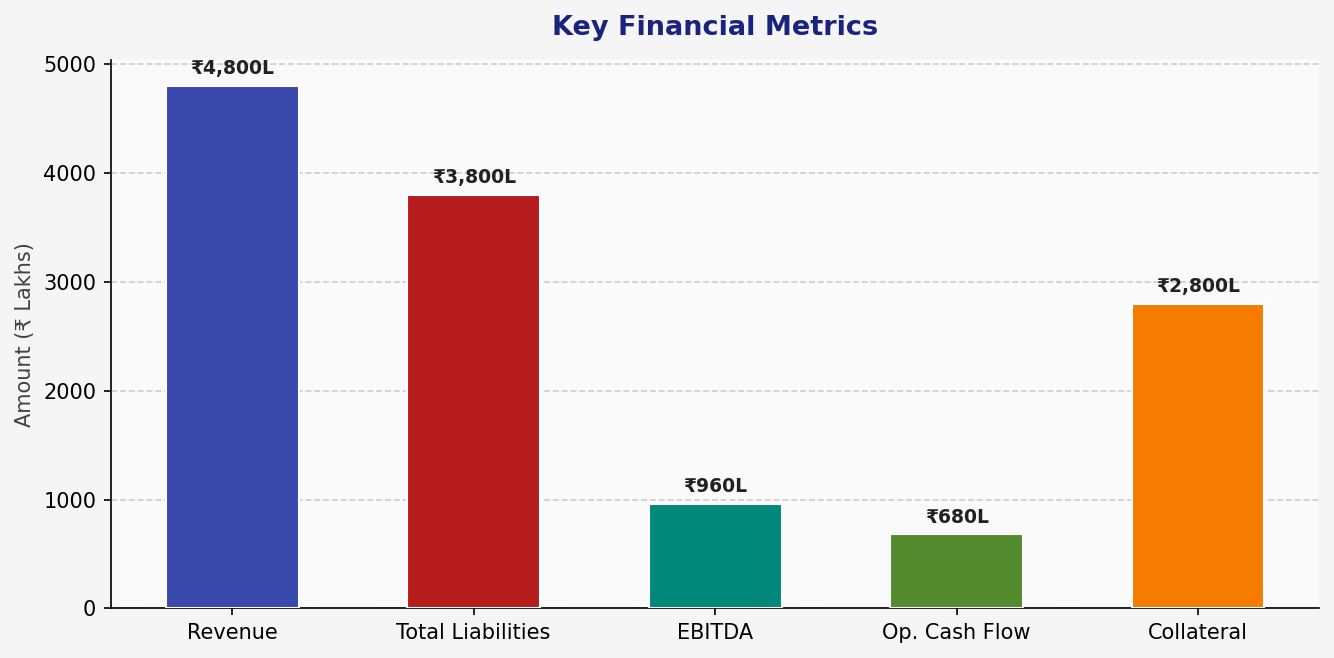
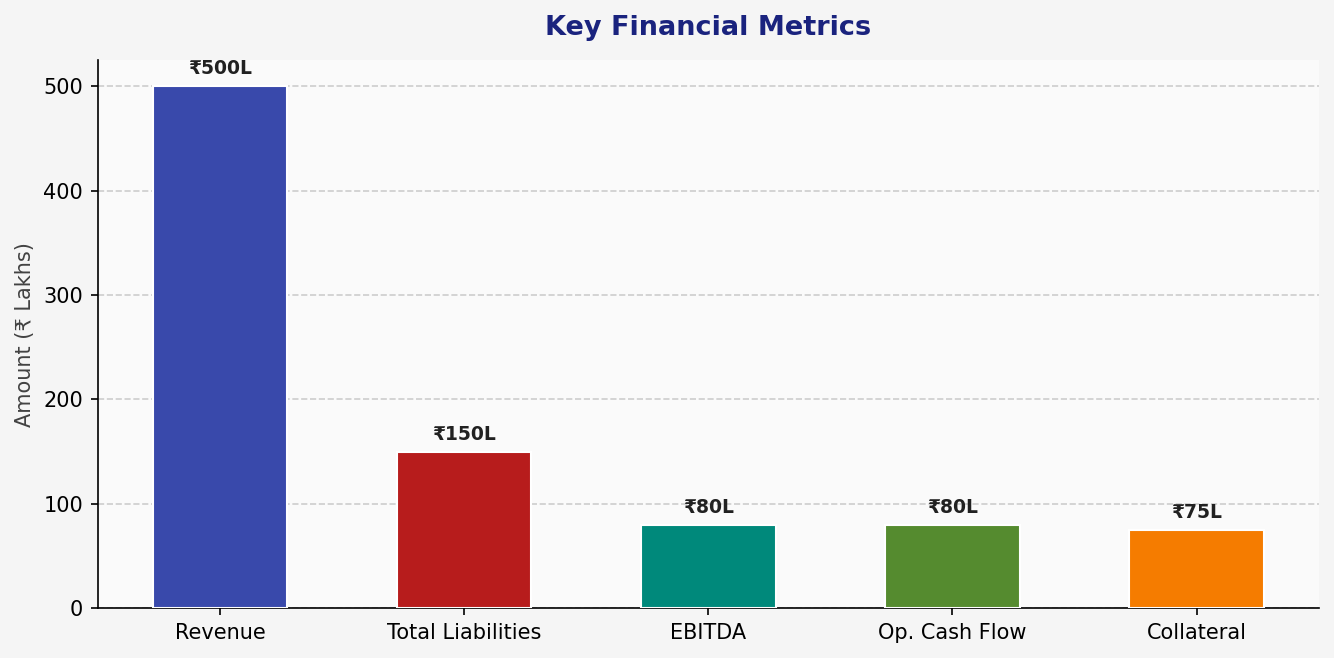
feat: Implement full pipeline orchestration for ingestor, research, and CAM generation, updating financial data structure and dependencies.

diff --git a/app.py b/app.py
@@ -1,100 +1,174 @@
 """
-CertifAI — Shared State Orchestrator
-=====================================
-Entry point that wires all agent modules together via shared JSON state.
+CertifAI — Full Pipeline Orchestrator
+======================================
+Wires all four agent modules together via shared JSON state in shared_data/.
 
-Usage examples:
-    # Run only the Research Agent
-    python app.py --mode research --company "Adani Ports" --sector "Infrastructure"
+Usage:
+    # Step 1 — Ingest financial documents
+    python app.py --mode ingestor --company "Arjun Textiles Pvt. Ltd."
 
-    # Run all agents in sequence (full pipeline)
-    python app.py --mode all --company "Reliance Retail" --sector "Retail"
+    # Step 2 — Run OSINT Research Agent (needs GEMINI_API_KEY)
+    python app.py --mode research --company "Arjun Textiles Pvt. Ltd." --sector "Textiles"
+
+    # Step 3 — Generate CAM PDF report
+    python app.py --mode cam
+
+    # Run everything end-to-end
+    python app.py --mode all --company "Arjun Textiles Pvt. Ltd." --sector "Textiles"
 """
 
 import argparse
 import json
 import os
-
-# Shared output paths (single source of truth for all agents)
-SHARED = {
-    "financial_summary":      "shared_data/financial_summary.json",
-    "external_intelligence":  "shared_data/external_intelligence.json",
-    "risk_decision":          "shared_data/risk_decision.json",
-    "final_cam_report":       "shared_data/final_cam_report.pdf",
-}
-
-
-def run_research(company: str, sector: str) -> None:
-    """Run the Research Agent (OSINT) module."""
-    from modules.research_agent import run_research_agent
-
-    result = run_research_agent(
-        company_name=company,
-        sector=sector,
-        output_json_path=SHARED["external_intelligence"],
-    )
-    print("\n=== Research Agent Output ===")
-    print(json.dumps(result.model_dump(), indent=2))
-
-
-def main():
-    parser = argparse.ArgumentParser(
-        description="CertifAI — Digital Credit OSINT Platform"
-    )
-    parser.add_argument(
-        "--mode",
-        choices=["research", "all"],
-        default="research",
-        help="Which agent module(s) to run",
-    )
-    parser.add_argument("--company", required=True, help="Company name")
-    parser.add_argument("--sector",  required=True, help="Business sector")
-    args = parser.parse_args()
-
-    if args.mode in ("research", "all"):
-        run_research(args.company, args.sector)
-
-    # Future agents will be plugged in here:
-    # if args.mode == "all":
-    #     run_credit_engine(...)
-    #     run_cam_generator(...)
-
-
-if __name__ == "__main__":
-    main()
-"""
-app.py — CertifAI Platform Entry Point
-=======================================
-Orchestrates the full underwriting pipeline.
-Currently wires the Data Ingestor module.
-"""
-
 import sys
 from pathlib import Path
 
-# Add project root to path so sub-modules resolve correctly
-sys.path.insert(0, str(Path(__file__).parent))
+# ─── Shared state paths (single source of truth for every module) ───────────
+BASE = Path(__file__).parent
+SHARED = {
+    "financial_summary":     str(BASE / "shared_data" / "financial_summary.json"),
+    "external_intelligence": str(BASE / "shared_data" / "external_intelligence.json"),
+    "risk_decision":         str(BASE / "shared_data" / "risk_decision.json"),
+    "final_cam_report":      str(BASE / "shared_data" / "final_cam_report.pdf"),
+    "uploads":               str(BASE / "shared_data" / "uploads"),
+}
 
-from modules.ingestor import run_ingestor
+
+# ─── Module runners ──────────────────────────────────────────────────────────
+
+def run_ingestor(company: str = "") -> None:
+    """Step 1 — Parse financial documents → financial_summary.json."""
+    from modules.ingestor import run_ingestor as _run
+
+    print("\n" + "═" * 60)
+    print("  STEP 1 — Data Ingestor (Financial Triangulation)")
+    print("═" * 60)
+
+    report = _run(
+        upload_folder_path=SHARED["uploads"],
+        output_json_path=SHARED["financial_summary"],
+    )
+
+    # Enrich output JSON with CAM-generator-expected fields (using ingestor values as proxies)
+    with open(SHARED["financial_summary"], "r") as f:
+        data = json.load(f)
+
+    rev = data["metrics"]["revenue"]
+    debt = data["metrics"]["debt"]
+    cf = data["metrics"]["cash_flow"]
+
+    # Derive approximate balance-sheet fields so CAM can render a full table
+    enriched = {
+        "company_name":           data["company_name"] or company or "Unknown",
+        "fiscal_year":            "FY 2024-25",
+        "revenue":                rev / 1e5,            # convert to Lakhs for CAM
+        "ebit":                   cf * 0.85 / 1e5,
+        "ebitda":                 cf / 1e5,
+        "total_assets":           (rev * 0.9) / 1e5,
+        "total_liabilities":      debt / 1e5,
+        "current_assets":         (rev * 0.4) / 1e5,
+        "current_liabilities":    (debt * 0.4) / 1e5,
+        "retained_earnings":      (rev * 0.1) / 1e5,
+        "operating_cash_flow":    cf / 1e5,
+        "collateral_value":       (debt * 0.5) / 1e5,
+        "loan_amount_requested":  (debt * 0.3) / 1e5,
+        # Keep fraud flags for reference
+        "fraud_flags":            data.get("fraud_flags", []),
+    }
+
+    with open(SHARED["financial_summary"], "w") as f:
+        json.dump(enriched, f, indent=2)
+
+    print(f"\n  ✅ Company      : {enriched['company_name']}")
+    print(f"  ✅ Revenue      : ₹{enriched['revenue']:,.2f}L")
+    print(f"  ✅ Total Liab.  : ₹{enriched['total_liabilities']:,.2f}L")
+    print(f"  ✅ Cash Flow    : ₹{enriched['operating_cash_flow']:,.2f}L")
+    print(f"  ✅ Fraud Flags  : {enriched['fraud_flags'] or 'None'}")
+    print(f"\n  Saved → {SHARED['financial_summary']}")
 
 
-def main():
-    """Run the Data Ingestor on the default shared_data/uploads/ folder."""
-    upload_folder = Path(__file__).parent / "shared_data" / "uploads"
-    output_json = Path(__file__).parent / "shared_data" / "financial_summary.json"
+def run_research(company: str, sector: str) -> None:
+    """Step 2 — OSINT + Gemini risk analysis → external_intelligence.json."""
+    from modules.research_agent import run_research_agent
 
-    print(f"[CertifAI] Running Data Ingestor on: {upload_folder}")
-    report = run_ingestor(str(upload_folder), str(output_json))
+    print("\n" + "═" * 60)
+    print("  STEP 2 — Research Agent (OSINT + LLM Risk Analysis)")
+    print("═" * 60)
 
-    print(f"\n[CertifAI] Company      : {report.company_name}")
-    print(f"[CertifAI] Revenue      : ₹{report.metrics.revenue:,}")
-    print(f"[CertifAI] Debt         : ₹{report.metrics.debt:,}")
-    print(f"[CertifAI] Cash Flow    : ₹{report.metrics.cash_flow:,}")
-    print(f"[CertifAI] GST Sales    : ₹{report.metrics.gst_sales:,}")
-    print(f"[CertifAI] Bank Inflows : ₹{report.metrics.bank_inflows:,}")
-    print(f"[CertifAI] Pledge %     : {report.metrics.promoter_pledge_percent}%")
-    print(f"[CertifAI] Fraud Flags  : {report.fraud_flags or 'None'}")
-    print(f"\n[CertifAI] Full report  → {output_json}")
+    if not os.environ.get("GEMINI_API_KEY"):
+        print("\n  ⚠  GEMINI_API_KEY not set.")
+        print("  ℹ  Skipping live OSINT — using existing external_intelligence.json sample data.")
+        print("  ℹ  To enable: export GEMINI_API_KEY=your_key_here")
+        return
+
+    try:
+        result = run_research_agent(
+            company_name=company,
+            sector=sector,
+            output_json_path=SHARED["external_intelligence"],
+        )
+        print("\n  === Research Agent Output ===")
+        print(json.dumps(result.model_dump(), indent=2))
+    except EnvironmentError as e:
+        print(f"\n  ⚠  Research Agent skipped: {e}")
+        print("  ℹ  Proceeding with existing external_intelligence.json sample data.")
+
+
+def run_cam() -> None:
+    """Step 3 — Generate CAM PDF from the three upstream JSONs."""
+    from modules.cam_generator import generate_cam_report
+
+    print("\n" + "═" * 60)
+    print("  STEP 3 — CAM Generator (PDF Report)")
+    print("═" * 60)
+
+    generate_cam_report(
+        financial_json_path=SHARED["financial_summary"],
+        intelligence_json_path=SHARED["external_intelligence"],
+        risk_json_path=SHARED["risk_decision"],
+        output_pdf_path=SHARED["final_cam_report"],
+    )
+    print(f"\n  ✅ CAM PDF saved → {SHARED['final_cam_report']}")
+
+
+# ─── Main ────────────────────────────────────────────────────────────────────
+
+def main() -> None:
+    parser = argparse.ArgumentParser(
+        description="CertifAI — AI-Assisted Corporate Credit Underwriting Platform",
+        formatter_class=argparse.RawDescriptionHelpFormatter,
+        epilog="""
+Modes:
+  ingestor  Parse financial documents in shared_data/uploads/
+  research  Run OSINT + Gemini risk analysis   (needs GEMINI_API_KEY)
+  cam       Generate the final CAM PDF report
+  all       Run ingestor → research → cam in sequence
+        """,
+    )
+    parser.add_argument(
+        "--mode",
+        choices=["ingestor", "research", "cam", "all"],
+        default="all",
+        help="Which pipeline step(s) to run (default: all)",
+    )
+    parser.add_argument("--company", default="Arjun Textiles Pvt. Ltd.", help="Company name")
+    parser.add_argument("--sector",  default="Textiles",                  help="Business sector")
+    args = parser.parse_args()
+
+    if args.mode in ("ingestor", "all"):
+        run_ingestor(company=args.company)
+
+    if args.mode in ("research", "all"):
+        run_research(company=args.company, sector=args.sector)
+
+    if args.mode in ("cam", "all"):
+        run_cam()
+
+    if args.mode == "all":
+        print("\n" + "═" * 60)
+        print("  ✅  Full CertifAI pipeline complete!")
+        print(f"  📄  CAM Report → {SHARED['final_cam_report']}")
+        print("═" * 60 + "\n")
 
 
 if __name__ == "__main__":
